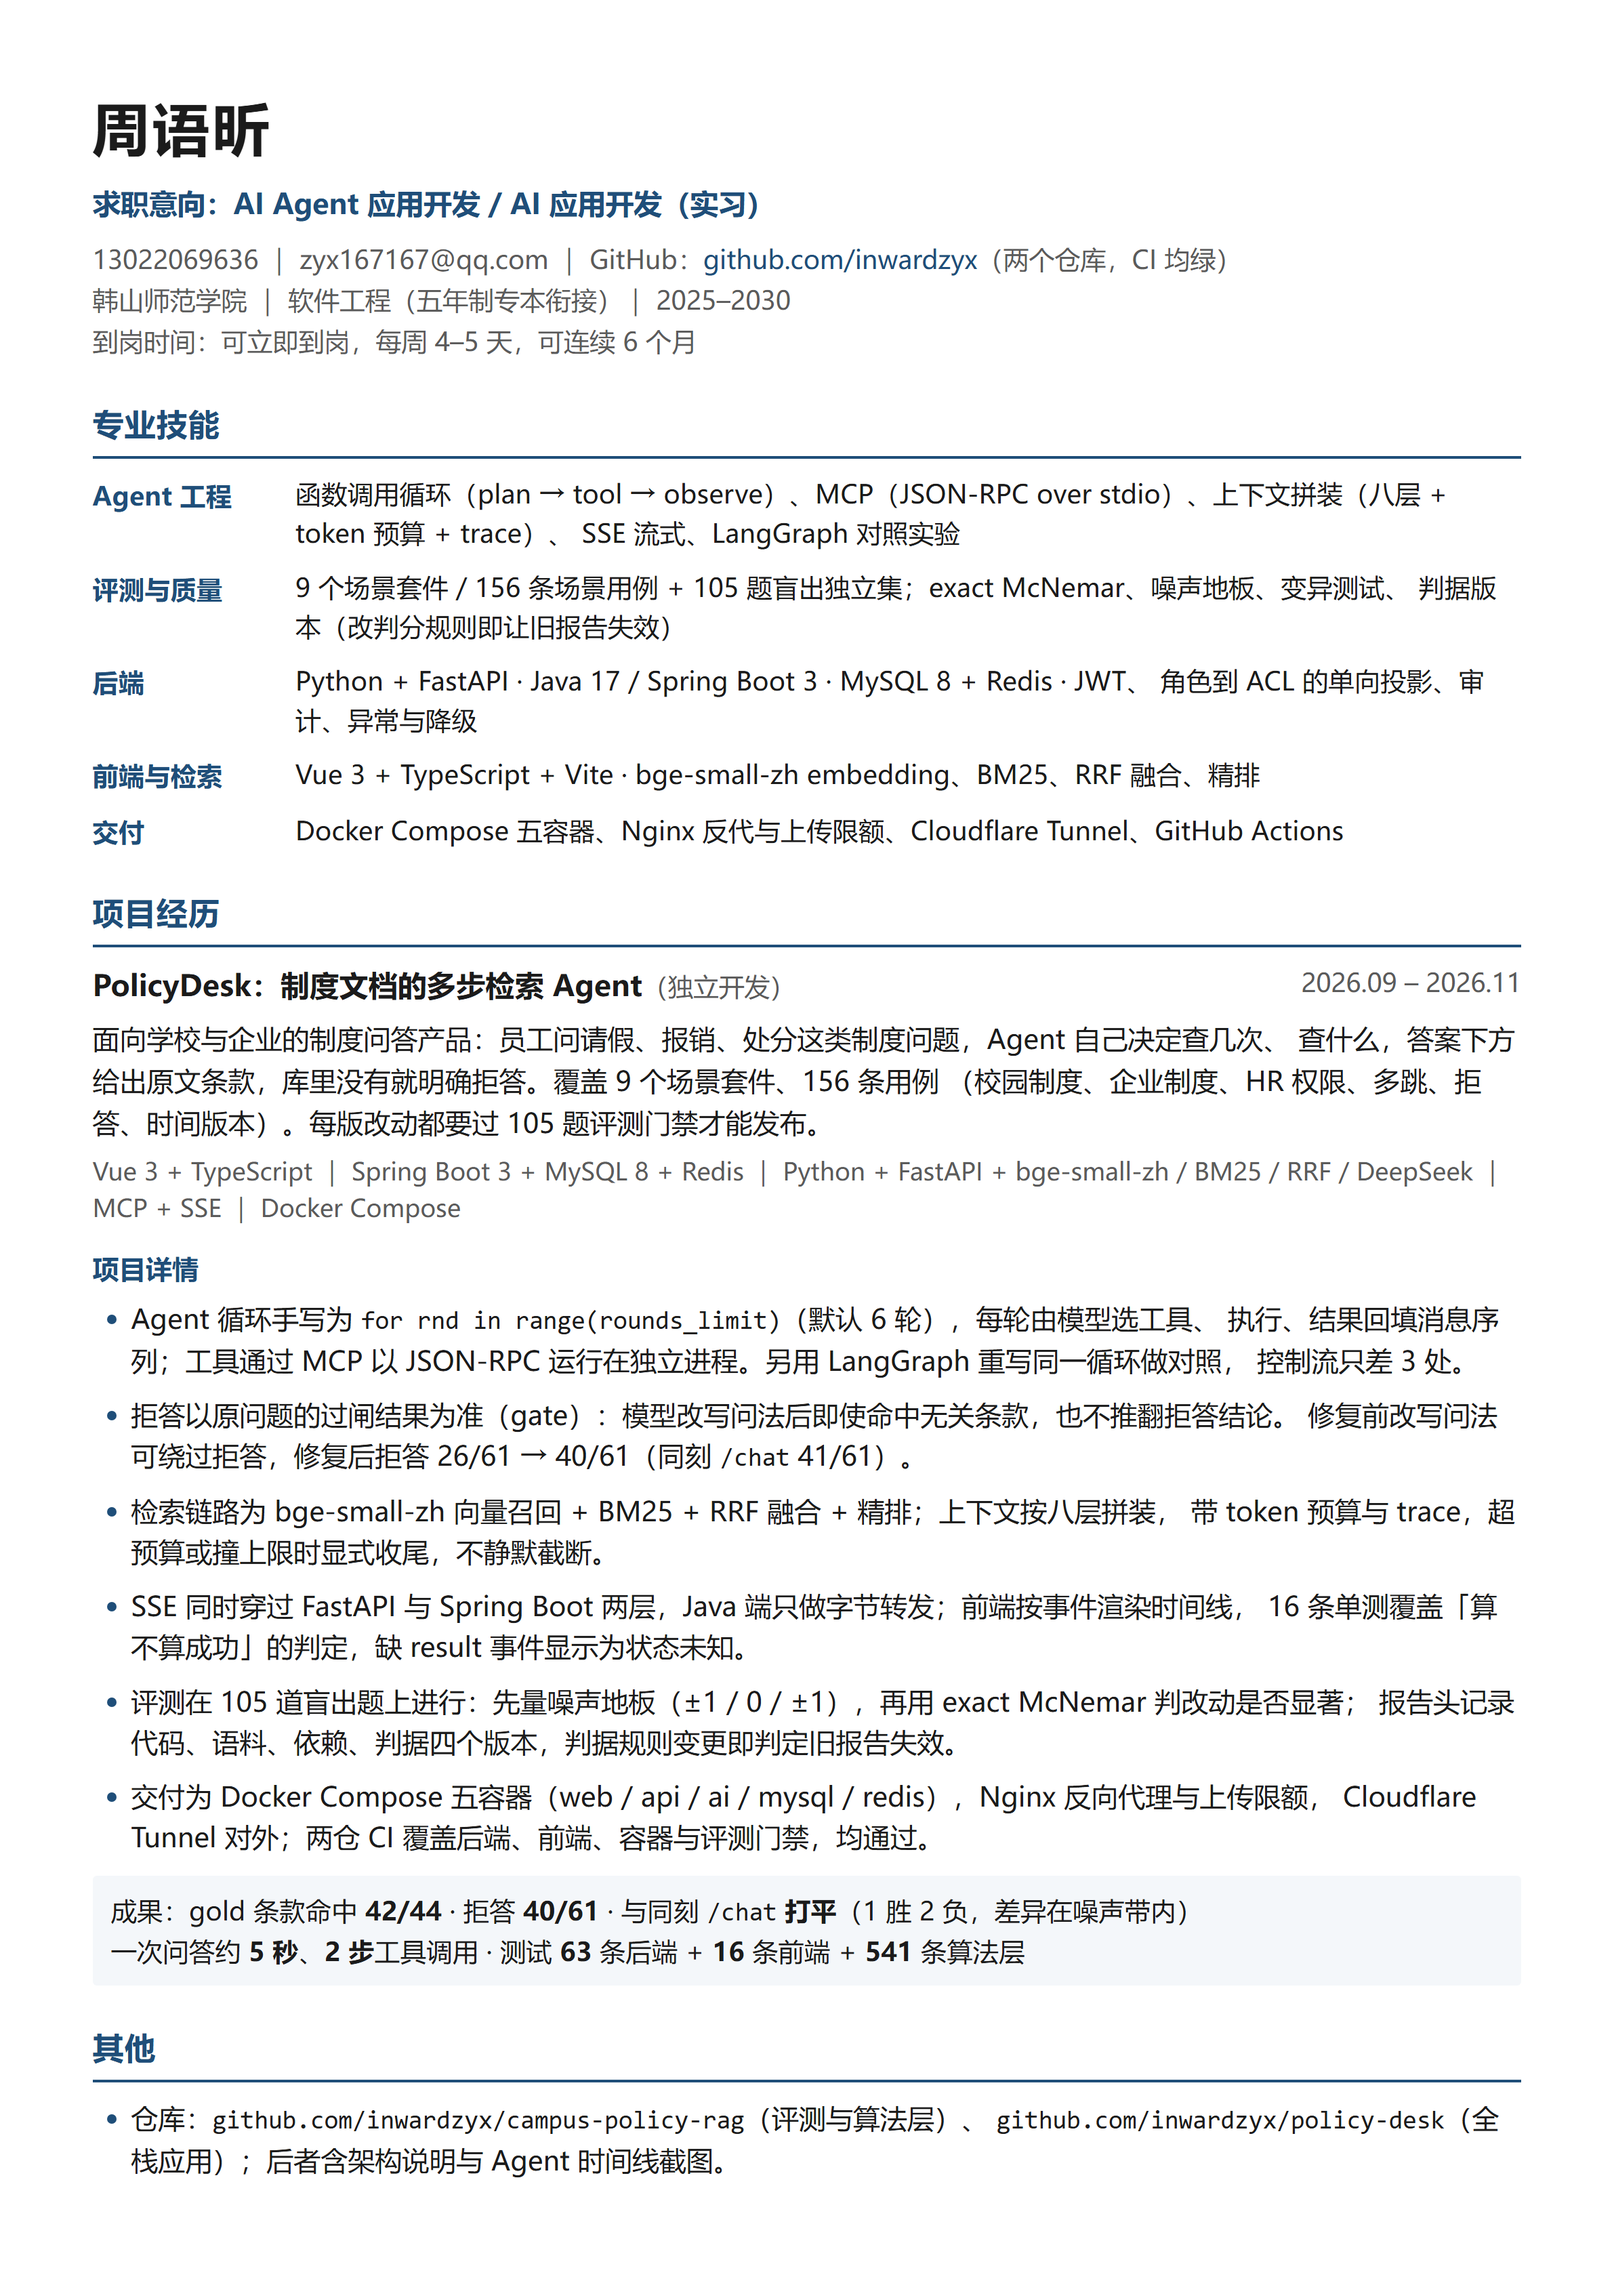
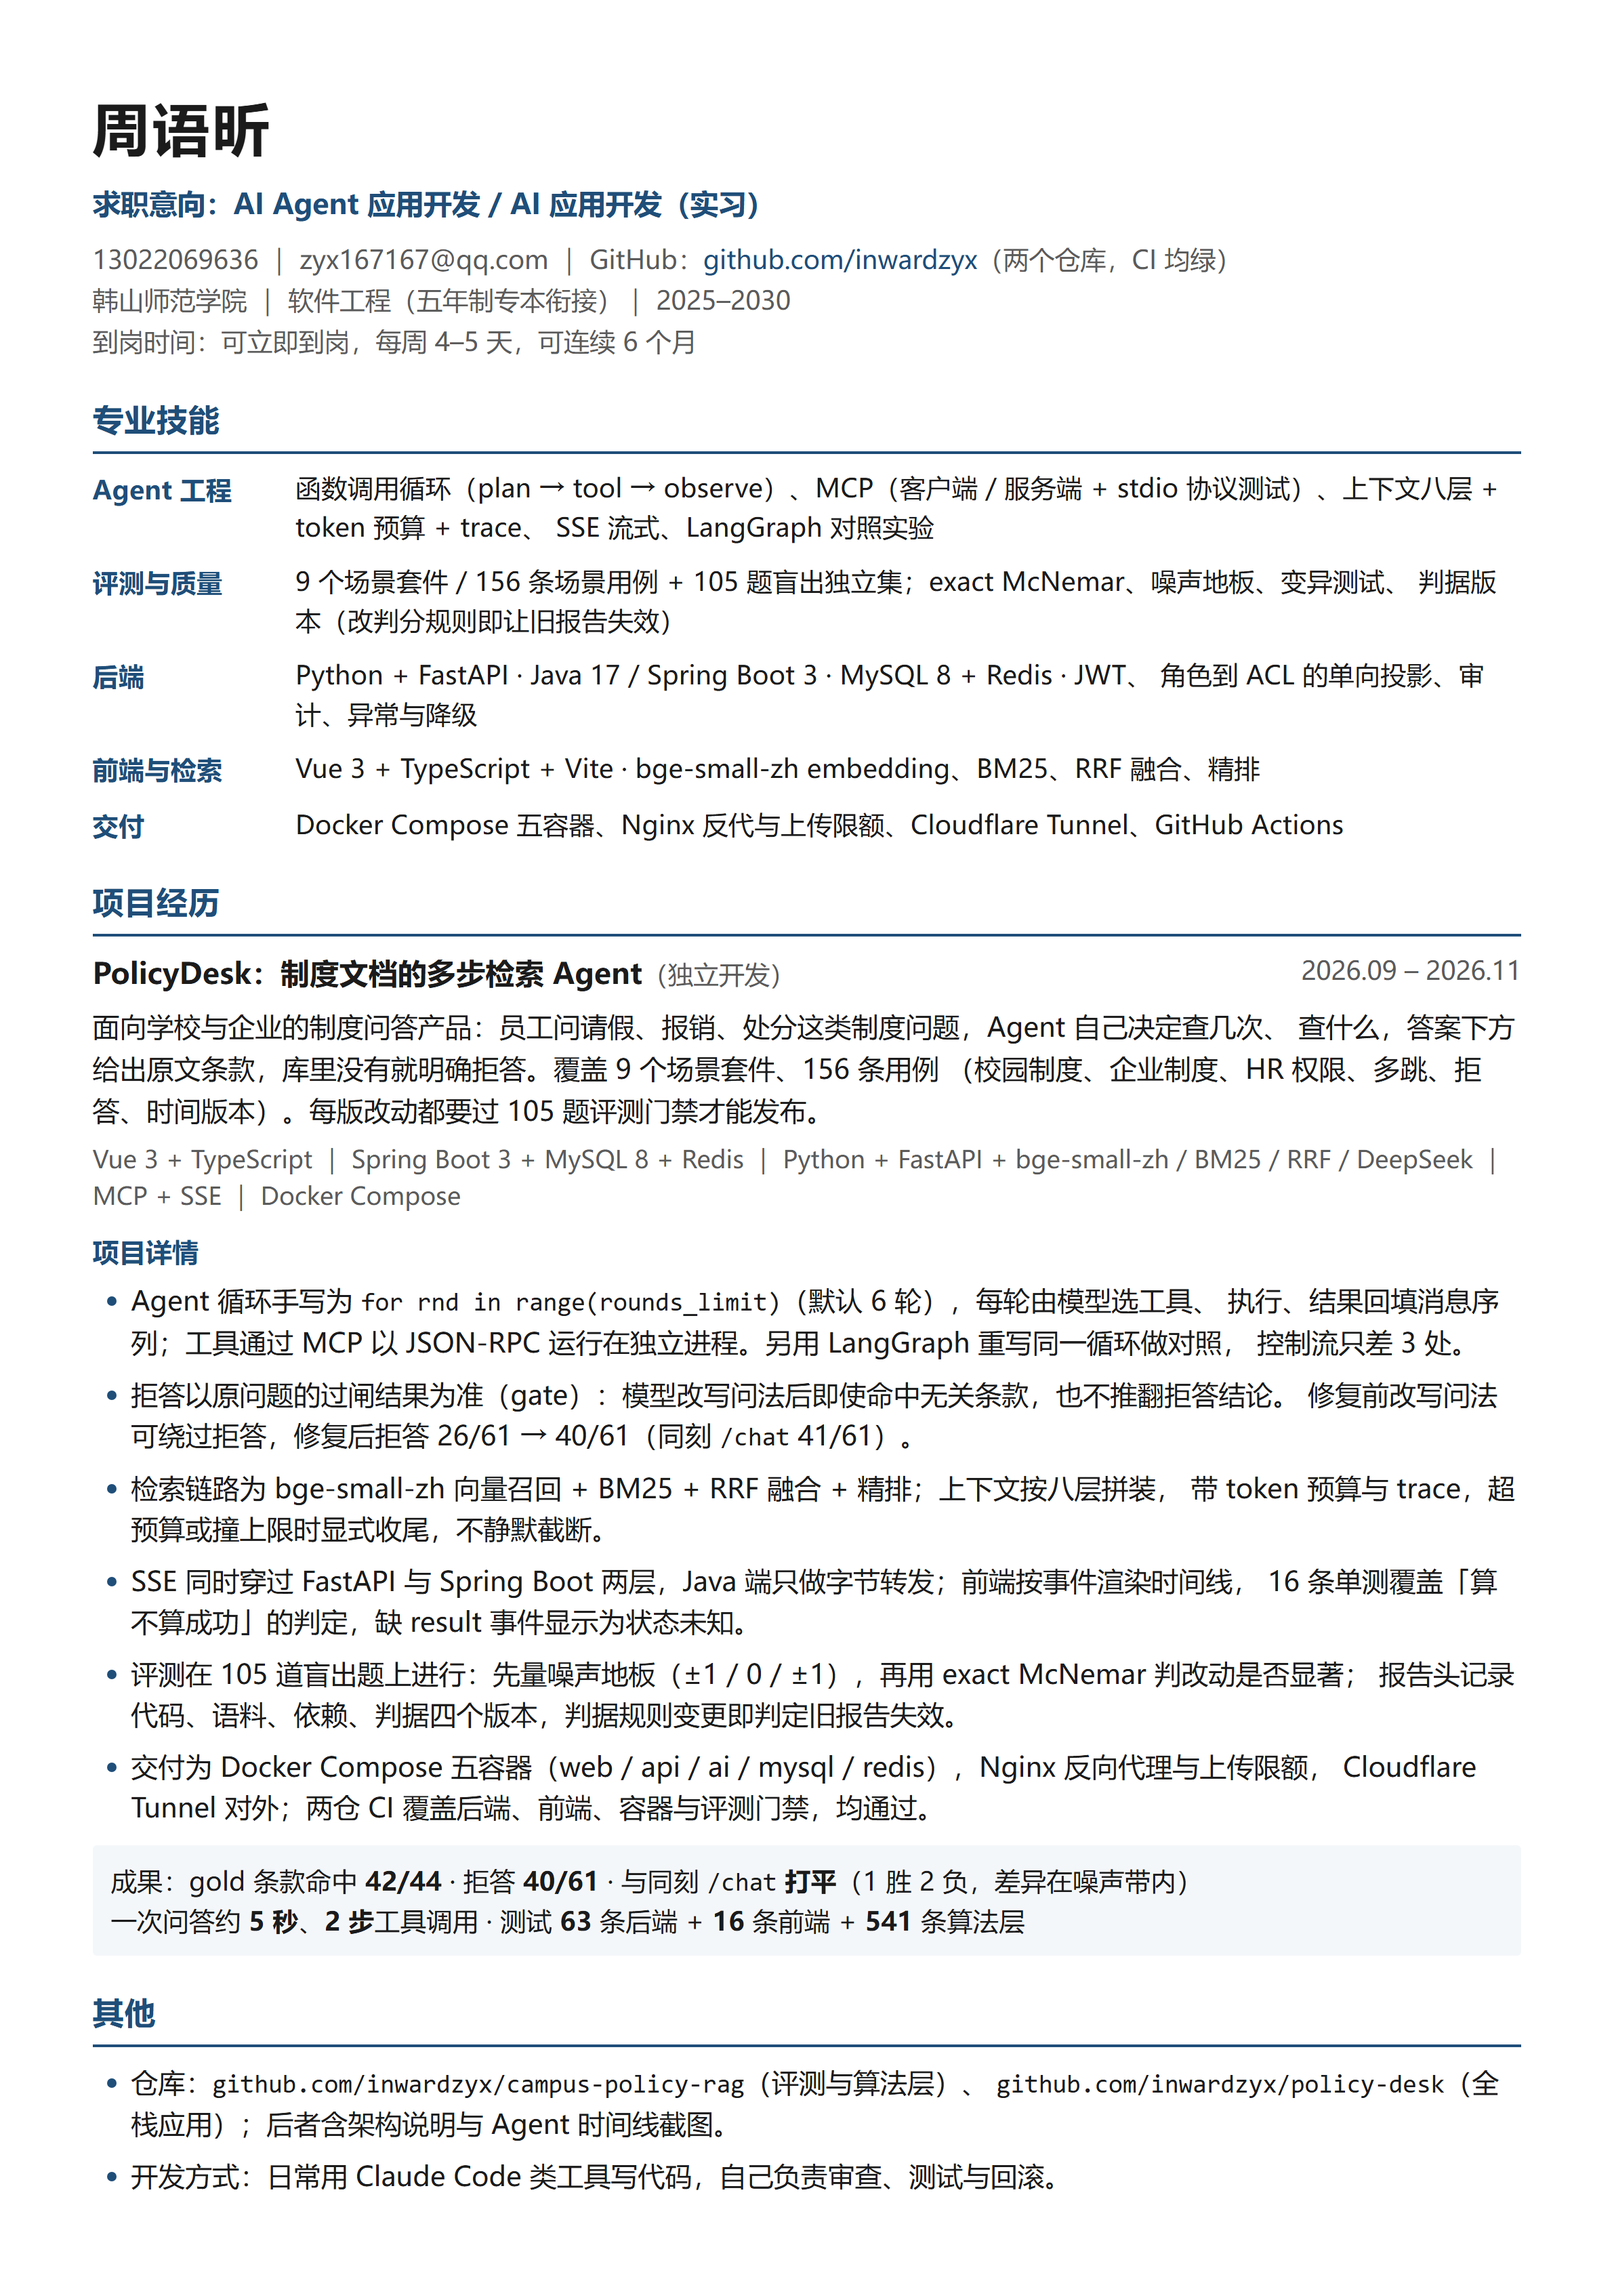
feat(resume): 按「HR 优先」补两处 + 落一份 HR 优先清单
用户的判断：简历很大程度上是让 HR 开心，只有这样才能漏到面试官。
按这个标准补的全是 HR 能一眼判断、且面试官能追问的东西：

- Agent 工程行：MCP（客户端 / 服务端 + stdio 协议测试）—— 这是那份「AI 产品实习生」JD 的加分项第 1 条，
  而且我确实有 mcp/client.py + mcp/server.py + 协议测试
- 「其他」加一条开发方式：日常用 Claude Code 类工具写代码，自己负责审查、测试与回滚
  （JD 明写"能审查 AI 产出、说得出哪些部分是自己判断的"）
- 间距微调（li 1.5 / h2 4.4 / lab 2.4mm），把多加的两行压回一页
- 新增 docs/hr-first-checklist.md：HR 到底在"开心"什么（好判断、关键词、无风险信号、格式），
  以及投递细节（PDF 文件名、邮件主题、在线简历三处一致）

diff --git a/docs/resume-final-img.html b/docs/resume-final-img.html
@@ -31,7 +31,7 @@
   .photo { width: 23mm; height: 31mm; border: 1px solid var(--line); border-radius: 2px; object-fit: cover; flex: 0 0 auto; }
 
   h2 {
-    font-size: 11.4pt; margin: 5mm 0 2mm; padding-bottom: 1.2mm;
+    font-size: 11.4pt; margin: 4.4mm 0 1.8mm; padding-bottom: 1.2mm;
     border-bottom: 1.4px solid var(--accent); color: var(--accent); letter-spacing: 0.5px;
   }
 
@@ -42,10 +42,10 @@
   .desc { margin: 0 0 1.2mm; line-height: 1.55; }
   .stack { font-size: 9pt; color: var(--muted); margin: 0 0 1.6mm; line-height: 1.5; }
 
-  .lab { font-size: 9.8pt; font-weight: 600; color: var(--accent); margin: 3mm 0 1.2mm; }
+  .lab { font-size: 9.8pt; font-weight: 600; color: var(--accent); margin: 2.4mm 0 1mm; }
 
   ul { margin: 0; padding-left: 5mm; }
-  li { margin-bottom: 1.8mm; }
+  li { margin-bottom: 1.5mm; }
   li::marker { color: var(--accent); }
 
   b { font-weight: 600; }
@@ -82,7 +82,7 @@
 <h2>专业技能</h2>
 <div class="skills">
   <div class="k">Agent 工程</div>
-  <div>函数调用循环（plan → tool → observe）、MCP（JSON-RPC over stdio）、上下文拼装（八层 + token 预算 + trace）、
+  <div>函数调用循环（plan → tool → observe）、MCP（客户端 / 服务端 + stdio 协议测试）、上下文八层 + token 预算 + trace、
     SSE 流式、LangGraph 对照实验</div>
 
   <div class="k">评测与质量</div>
@@ -138,6 +138,7 @@
 <ul>
   <li>仓库：<code>github.com/inwardzyx/campus-policy-rag</code>（评测与算法层）、
     <code>github.com/inwardzyx/policy-desk</code>（全栈应用）；后者含架构说明与 Agent 时间线截图。</li>
+  <li>开发方式：日常用 Claude Code 类工具写代码，自己负责审查、测试与回滚。</li>
 </ul>
 
 </body>

diff --git a/docs/resume-final.html b/docs/resume-final.html
@@ -31,7 +31,7 @@
   .photo { width: 23mm; height: 31mm; border: 1px solid var(--line); border-radius: 2px; object-fit: cover; flex: 0 0 auto; }
 
   h2 {
-    font-size: 11.4pt; margin: 5mm 0 2mm; padding-bottom: 1.2mm;
+    font-size: 11.4pt; margin: 4.4mm 0 1.8mm; padding-bottom: 1.2mm;
     border-bottom: 1.4px solid var(--accent); color: var(--accent); letter-spacing: 0.5px;
   }
 
@@ -42,10 +42,10 @@
   .desc { margin: 0 0 1.2mm; line-height: 1.55; }
   .stack { font-size: 9pt; color: var(--muted); margin: 0 0 1.6mm; line-height: 1.5; }
 
-  .lab { font-size: 9.8pt; font-weight: 600; color: var(--accent); margin: 3mm 0 1.2mm; }
+  .lab { font-size: 9.8pt; font-weight: 600; color: var(--accent); margin: 2.4mm 0 1mm; }
 
   ul { margin: 0; padding-left: 5mm; }
-  li { margin-bottom: 1.8mm; }
+  li { margin-bottom: 1.5mm; }
   li::marker { color: var(--accent); }
 
   b { font-weight: 600; }
@@ -81,7 +81,7 @@
 <h2>专业技能</h2>
 <div class="skills">
   <div class="k">Agent 工程</div>
-  <div>函数调用循环（plan → tool → observe）、MCP（JSON-RPC over stdio）、上下文拼装（八层 + token 预算 + trace）、
+  <div>函数调用循环（plan → tool → observe）、MCP（客户端 / 服务端 + stdio 协议测试）、上下文八层 + token 预算 + trace、
     SSE 流式、LangGraph 对照实验</div>
 
   <div class="k">评测与质量</div>
@@ -137,6 +137,7 @@
 <ul>
   <li>仓库：<code>github.com/inwardzyx/campus-policy-rag</code>（评测与算法层）、
     <code>github.com/inwardzyx/policy-desk</code>（全栈应用）；后者含架构说明与 Agent 时间线截图。</li>
+  <li>开发方式：日常用 Claude Code 类工具写代码，自己负责审查、测试与回滚。</li>
 </ul>
 
 </body>

diff --git a/docs/hr-first-checklist.md b/docs/hr-first-checklist.md
@@ -1,0 +1,43 @@
+# HR 优先清单（简历是给 HR 看的，不是给面试官看的）
+
+> 用户 2026-11-18 的判断：**简历很大程度上是让 HR 开心，只有这样才能漏到面试官。**
+> 这句话是对的，但要拆成"HR 到底在开心什么"——否则容易滑成吹牛，反而在面试官那关崩。
+
+## 一、HR 的"开心"具体是五件事
+
+| HR 想要的 | 你的做法 | 在哪体现 |
+|---|---|---|
+| **3 秒能判断你做什么** | 求职意向 + 项目首句写"谁用、解决什么" | 抬头 + 简介 |
+| **关键词能搜到** | Agent / MCP / RAG / FastAPI / 评测 / CI 全在技能栏 | 专业技能 |
+| **会干活，不是只会学** | 数字：42/44、40/61、541 条测试、CI 均绿 | 成果块 |
+| **没有风险信号** | 到岗时间写死、学历写清、仓库可点 | 抬头 + 其他 |
+| **格式像正式简历** | 一页、无错别字、PDF、文件名规范 | 全文 |
+
+**"开心"不等于"夸自己"**：HR 讨厌的是"精通/熟练掌握/学习能力强"，喜欢的是"能立刻判断、没有意外"。
+
+## 二、当前简历对 HR 的评分（自查）
+
+```text
+☑ 一页，无第二页空白
+☑ 求职意向在第二行（HR 第一眼看到方向）
+☑ 关键词密度：Agent / MCP / RAG / 评测 / FastAPI / Spring Boot / MySQL / Redis / Docker / CI
+☑ 到岗时间：可立即到岗、每周 4-5 天、连续 6 个月
+☑ 一个可点的仓库 + 可验证的数字
+☑ 无"精通/熟练掌握/学习能力强"
+☐ 照片（未放；国企/HR 直聊岗可加，创业团队可不加）
+```
+
+## 三、投递时的"HR 友好"细节
+
+| 项 | 该怎么做 |
+|---|---|
+| PDF 文件名 | `周语昕-AI应用开发实习.pdf`（不要 `resume-final.pdf`） |
+| 邮件主题 | `应聘 AI 应用开发实习-周语昕-可立即到岗` |
+| 附件 | 只发 PDF；不要 PNG/JPG（ATS 提取不到文字） |
+| 正文 | 3 行以内 + 一句"方便的话我可以先发两个仓库链接" |
+| 在线简历 | 期望岗位 / 到岗时间 / 个人优势第一行，三处必须和 PDF 一致 |
+
+## 四、一句话原则
+
+> **对 HR 要"好判断"，对面试官要"经得起问"。**
+> 两者冲突时，先满足 HR（否则你见不到面试官）；但**不能靠编**——因为面试官会当场验证。
